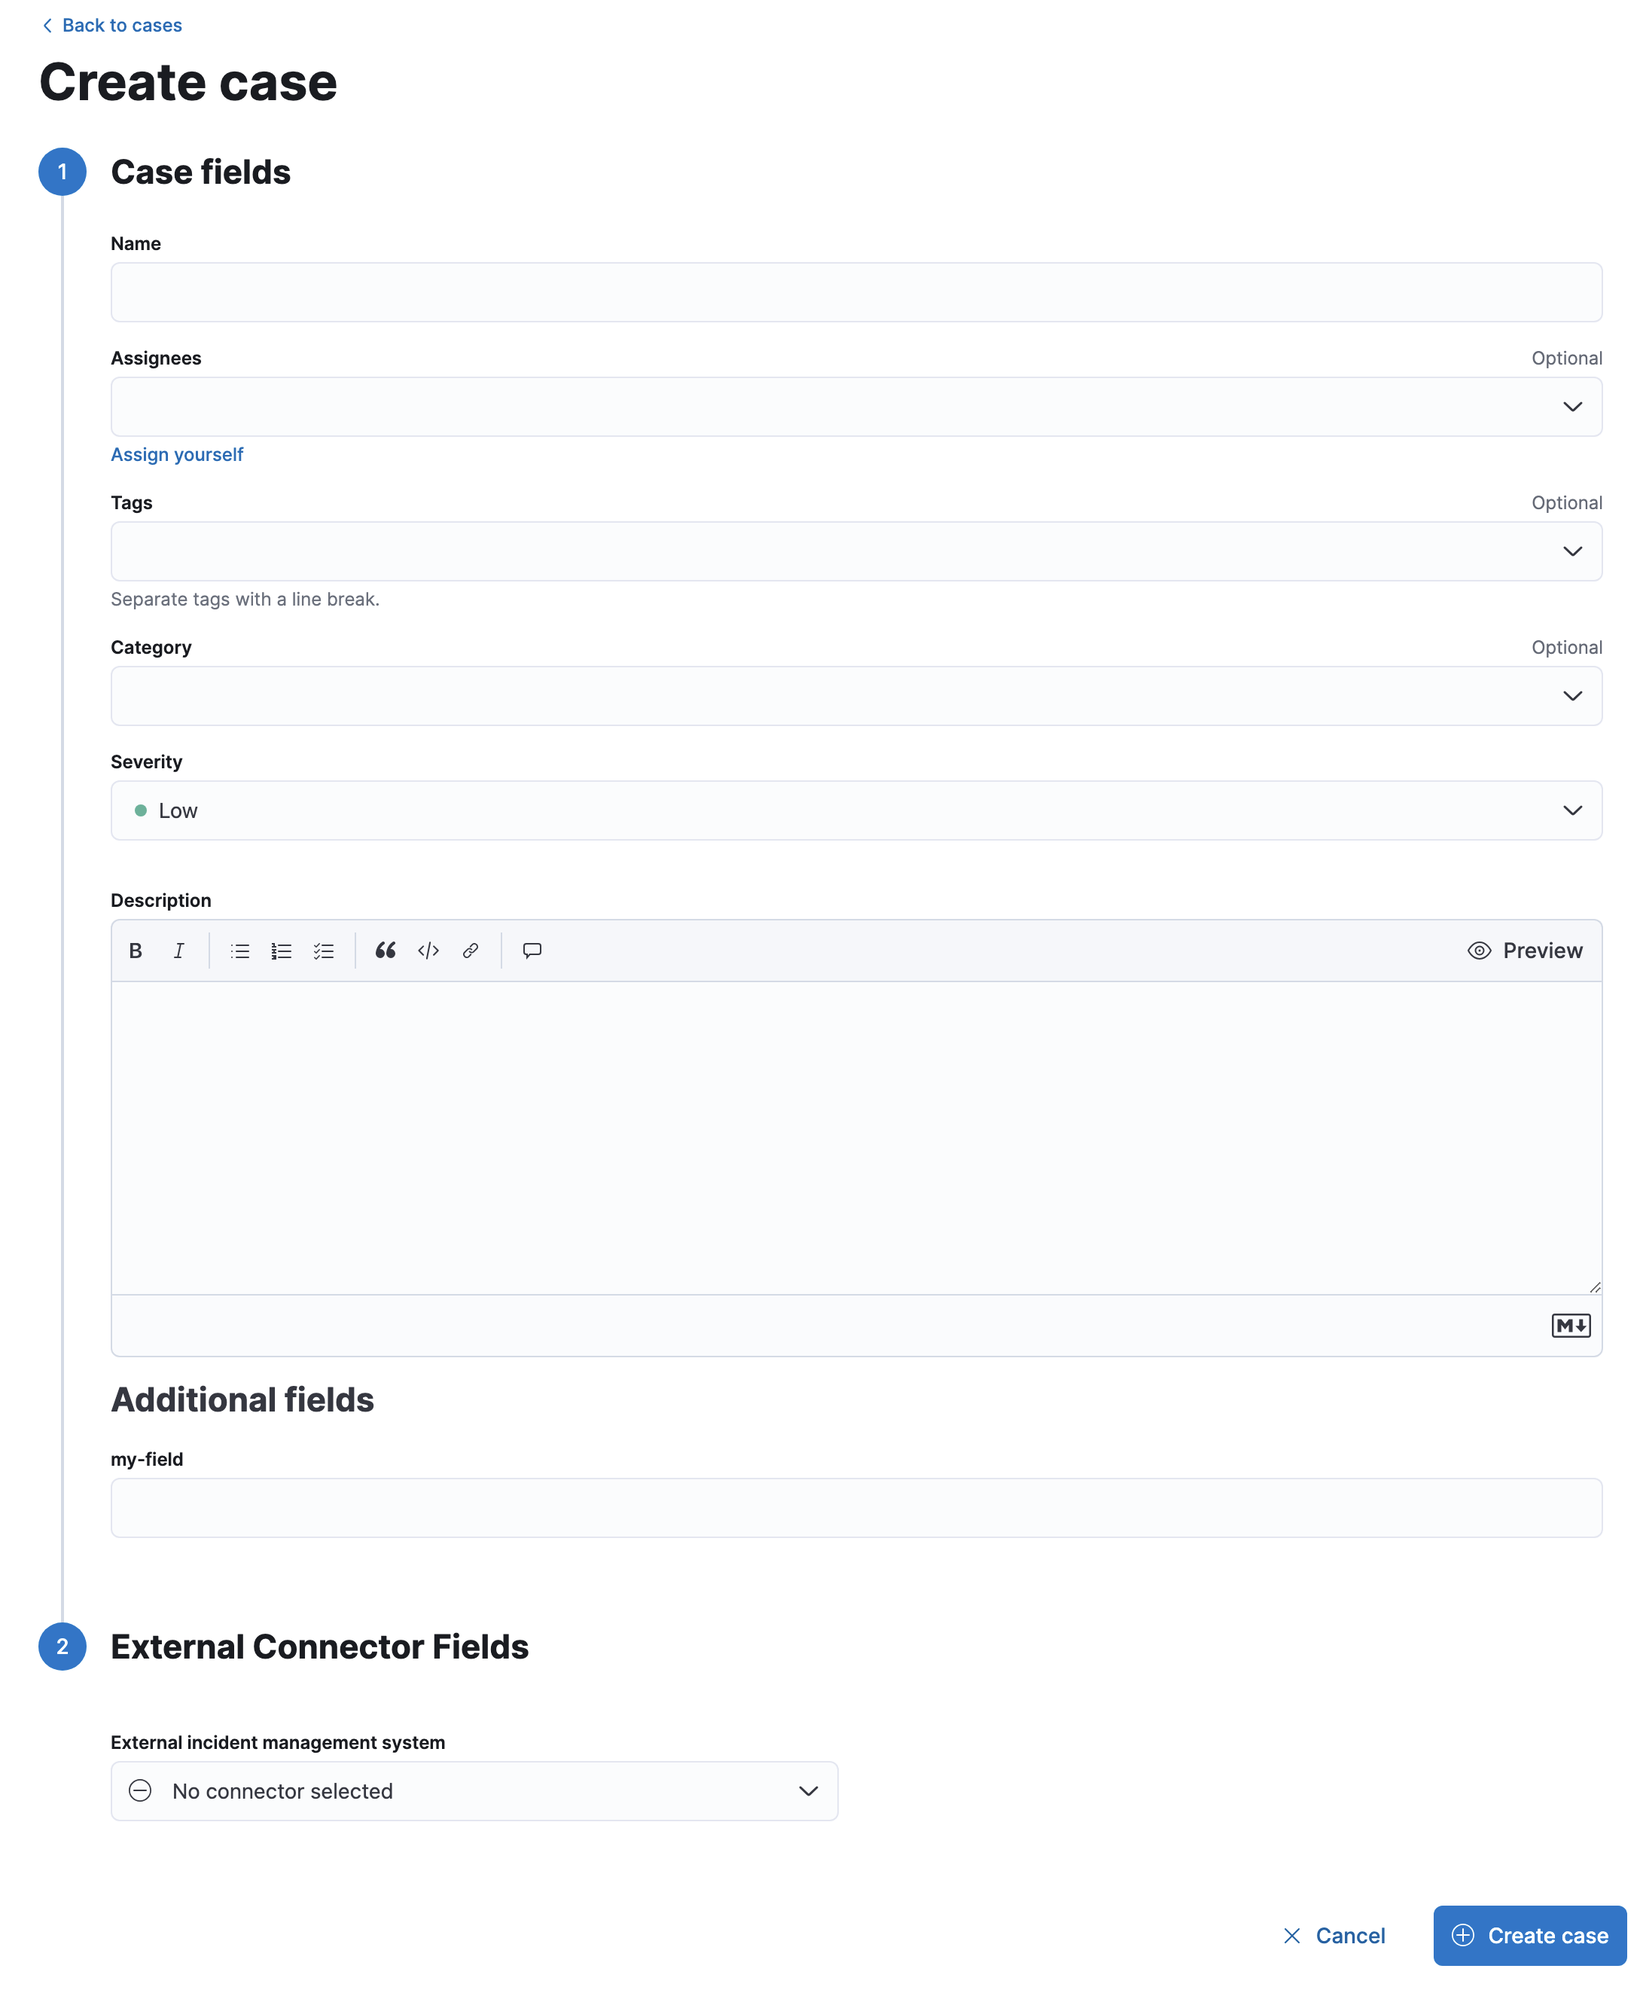
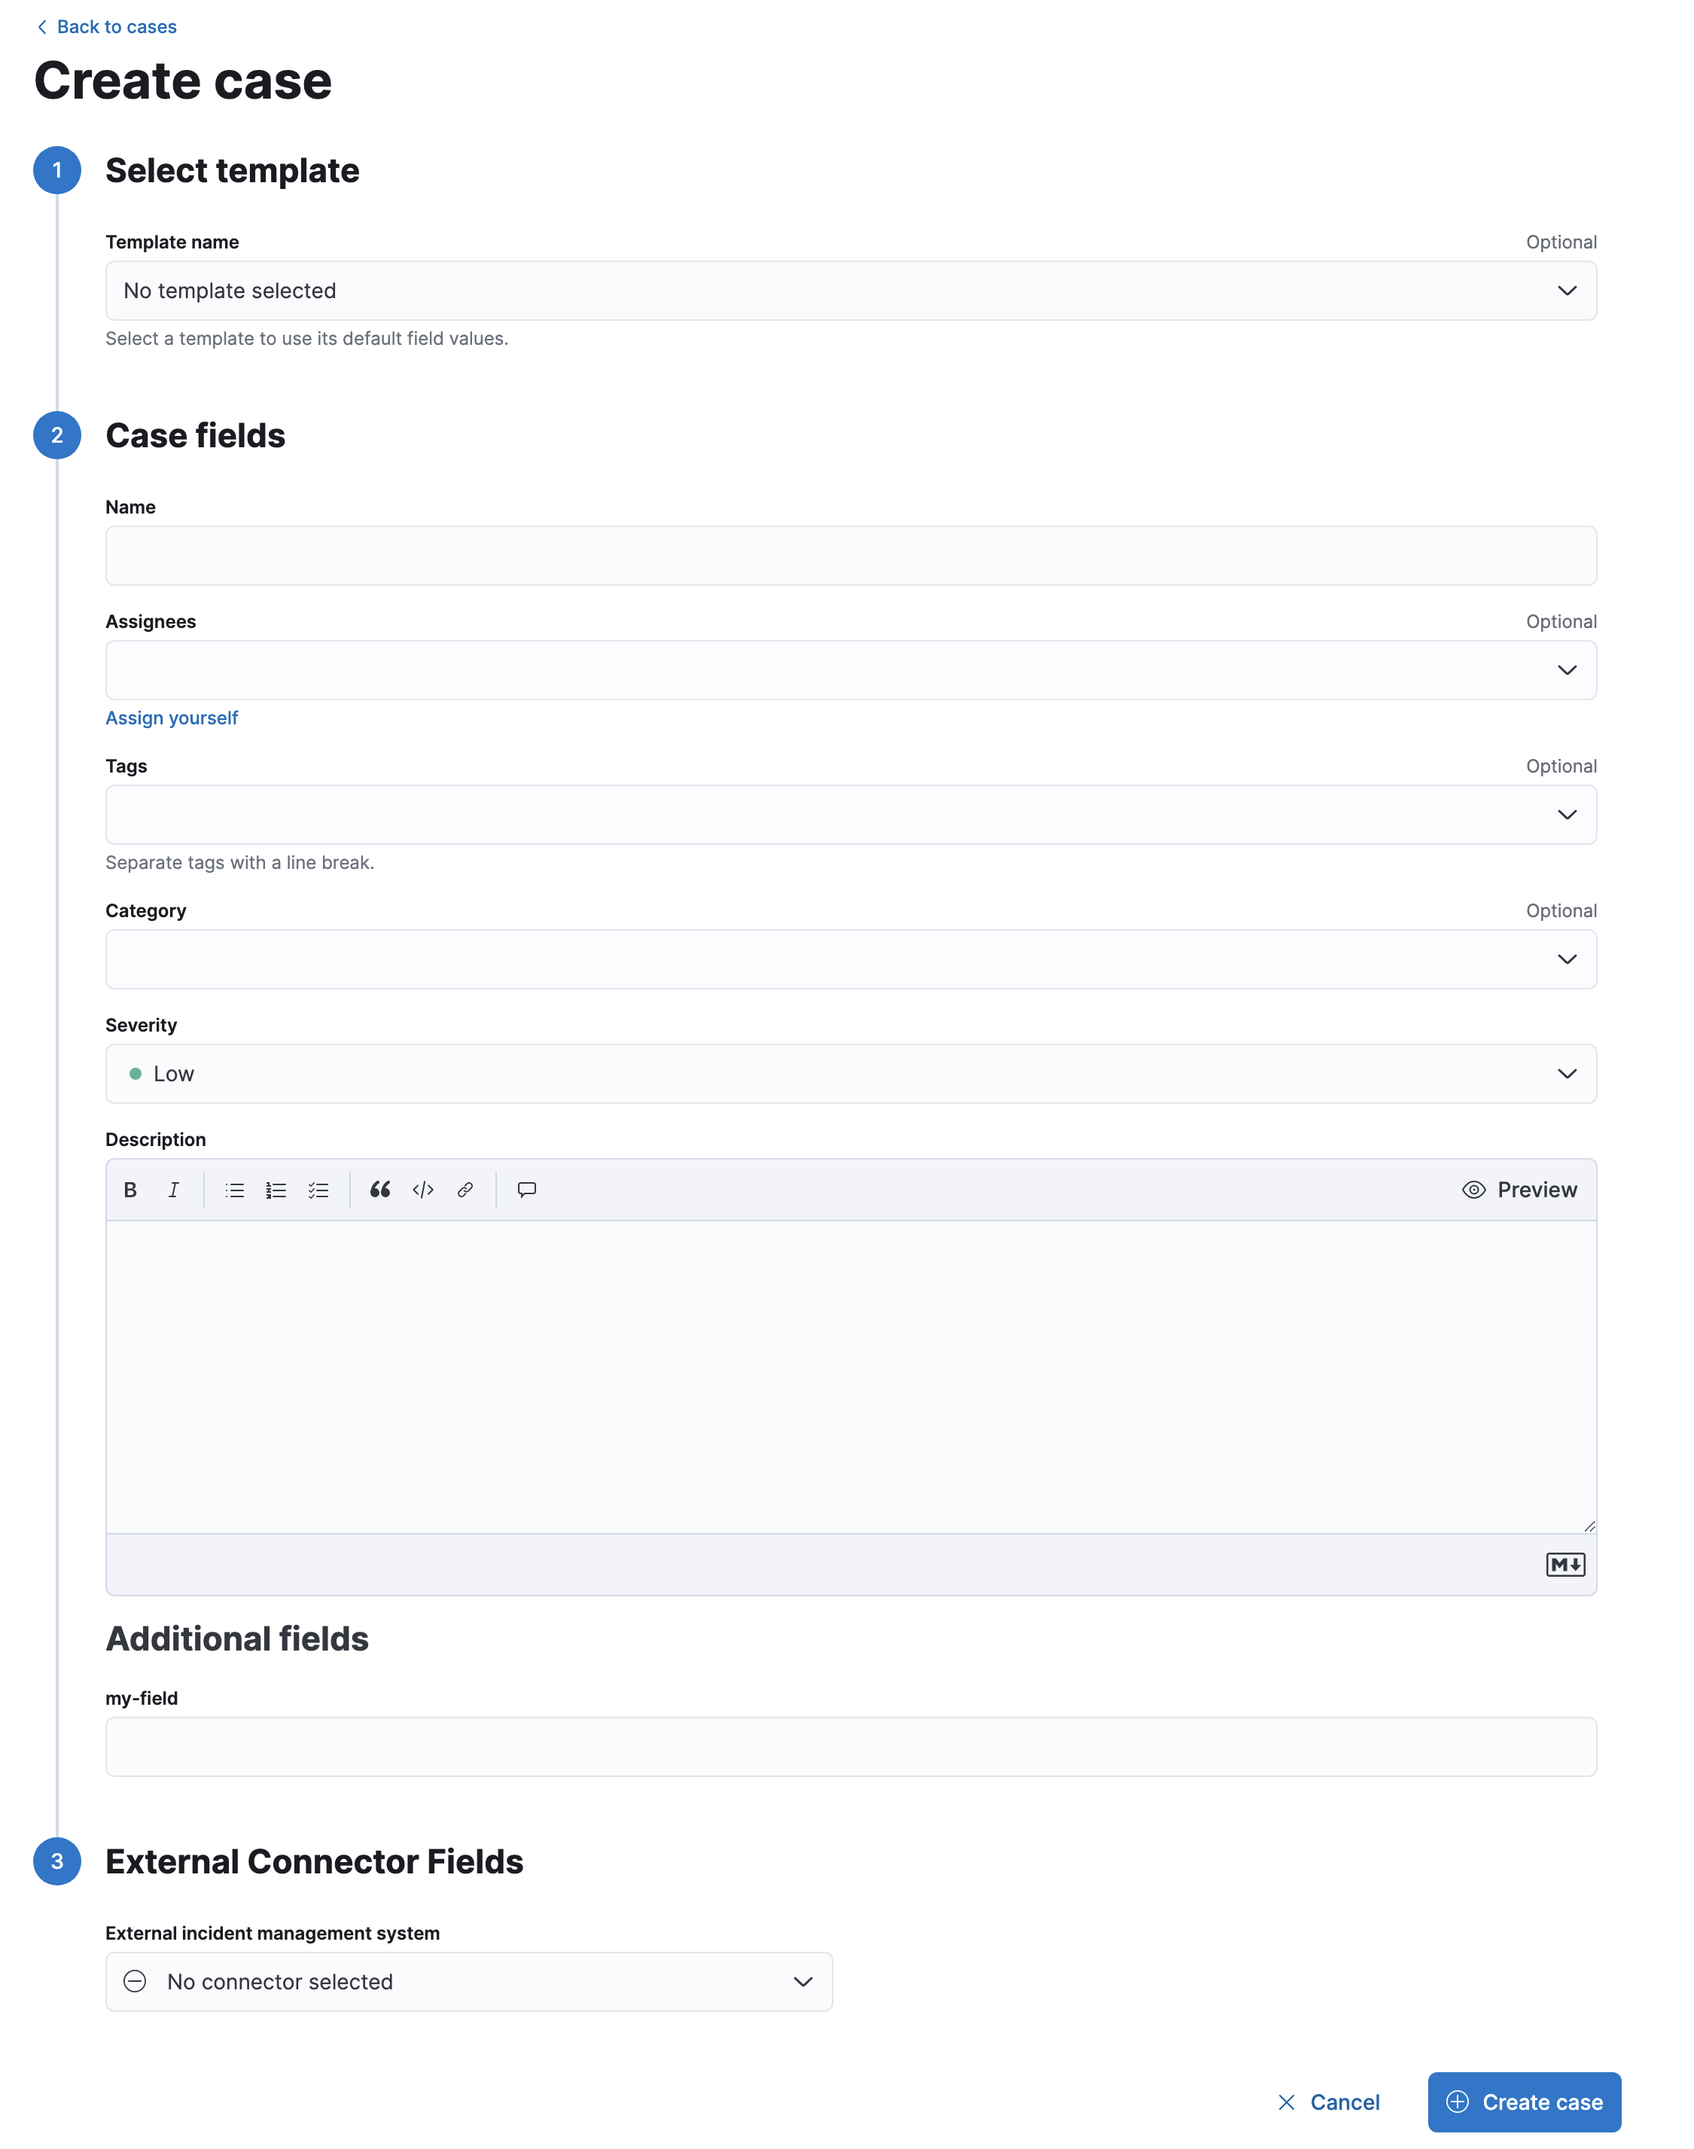
[Cases][Docs] Add case template overview (#187815)

diff --git a/x-pack/test_serverless/functional/test_suites/security/screenshot_creation/response_ops_docs/cases/settings.ts b/x-pack/test_serverless/functional/test_suites/security/screenshot_creation/response_ops_docs/cases/settings.ts
@@ -1,0 +1,48 @@
+/*
+ * Copyright Elasticsearch B.V. and/or licensed to Elasticsearch B.V. under one
+ * or more contributor license agreements. Licensed under the Elastic License
+ * 2.0; you may not use this file except in compliance with the Elastic License
+ * 2.0.
+ */
+
+import { SECURITY_SOLUTION_OWNER } from '@kbn/cases-plugin/common';
+import { FtrProviderContext } from '../../../../../ftr_provider_context';
+import { navigateToCasesApp } from '../../../../../../shared/lib/cases';
+
+export default function ({ getPageObject, getPageObjects, getService }: FtrProviderContext) {
+  const pageObjects = getPageObjects(['common', 'header', 'svlCommonPage', 'svlCommonNavigation']);
+  const svlCases = getService('svlCases');
+  const svlCommonScreenshots = getService('svlCommonScreenshots');
+  const screenshotDirectories = ['response_ops_docs', 'security_cases'];
+  const testSubjects = getService('testSubjects');
+  const owner = SECURITY_SOLUTION_OWNER;
+
+  describe('security case settings', function () {
+    after(async () => {
+      await svlCases.api.deleteAllCaseItems();
+    });
+
+    beforeEach(async () => {
+      await pageObjects.svlCommonPage.loginWithRole('admin');
+    });
+
+    it('case settings screenshot', async () => {
+      await navigateToCasesApp(getPageObject, getService, owner);
+      await testSubjects.click('configure-case-button');
+      await pageObjects.header.waitUntilLoadingHasFinished();
+      await svlCommonScreenshots.takeScreenshot('security-cases-settings', screenshotDirectories);
+      await testSubjects.click('add-template');
+      await svlCommonScreenshots.takeScreenshot(
+        'security-cases-templates',
+        screenshotDirectories,
+        1400,
+        1000
+      );
+      await testSubjects.click('common-flyout-cancel');
+      await testSubjects.click('dropdown-connectors');
+      await testSubjects.click('dropdown-connector-add-connector');
+      await svlCommonScreenshots.takeScreenshot('security-cases-connectors', screenshotDirectories);
+      await testSubjects.click('euiFlyoutCloseButton');
+    });
+  });
+}

diff --git a/x-pack/test/screenshot_creation/apps/response_ops_docs/stack_cases/settings.ts b/x-pack/test/screenshot_creation/apps/response_ops_docs/stack_cases/settings.ts
@@ -1,0 +1,44 @@
+/*
+ * Copyright Elasticsearch B.V. and/or licensed to Elasticsearch B.V. under one
+ * or more contributor license agreements. Licensed under the Elastic License
+ * 2.0; you may not use this file except in compliance with the Elastic License
+ * 2.0.
+ */
+
+import { FtrProviderContext } from '../../../ftr_provider_context';
+export default function ({ getPageObject, getService }: FtrProviderContext) {
+  const cases = getService('cases');
+  const commonScreenshots = getService('commonScreenshots');
+  const testSubjects = getService('testSubjects');
+  const screenshotDirectories = ['response_ops_docs', 'stack_cases'];
+
+  describe('case settings', function () {
+    it('case settings screenshot', async () => {
+      await cases.navigation.navigateToApp();
+      await cases.navigation.navigateToConfigurationPage();
+      await commonScreenshots.takeScreenshot('cases-settings', screenshotDirectories, 1400, 1024);
+      await testSubjects.click('add-template');
+      await commonScreenshots.takeScreenshot(
+        'cases-templates-add',
+        screenshotDirectories,
+        1400,
+        1000
+      );
+      await testSubjects.click('common-flyout-cancel');
+      // await testSubjects.click('add-custom-field');
+      // await commonScreenshots.takeScreenshot(
+      //   'cases-custom-fields-add',
+      //   screenshotDirectories,
+      //   1400,
+      //   700
+      // );
+      // await testSubjects.setValue('custom-field-label-input', 'my-field');
+      // await testSubjects.click('common-flyout-save');
+      // await commonScreenshots.takeScreenshot('cases-settings', screenshotDirectories, 1400, 1024);
+      // await cases.navigation.navigateToApp();
+      // await testSubjects.click('createNewCaseBtn');
+      // await commonScreenshots.takeScreenshot('cases-create', screenshotDirectories, 1400, 1900);
+      // await testSubjects.click('create-case-cancel');
+    });
+  });
+}

diff --git a/x-pack/test_serverless/functional/test_suites/observability/screenshot_creation/response_ops_docs/cases/settings.ts b/x-pack/test_serverless/functional/test_suites/observability/screenshot_creation/response_ops_docs/cases/settings.ts
@@ -1,0 +1,48 @@
+/*
+ * Copyright Elasticsearch B.V. and/or licensed to Elasticsearch B.V. under one
+ * or more contributor license agreements. Licensed under the Elastic License
+ * 2.0; you may not use this file except in compliance with the Elastic License
+ * 2.0.
+ */
+
+import { OBSERVABILITY_OWNER } from '@kbn/cases-plugin/common';
+import { FtrProviderContext } from '../../../../../ftr_provider_context';
+import { navigateToCasesApp } from '../../../../../../shared/lib/cases';
+
+export default function ({ getPageObject, getPageObjects, getService }: FtrProviderContext) {
+  const svlCases = getService('svlCases');
+  const svlCommonScreenshots = getService('svlCommonScreenshots');
+  const screenshotDirectories = ['response_ops_docs', 'observability_cases'];
+  const testSubjects = getService('testSubjects');
+  const owner = OBSERVABILITY_OWNER;
+
+  describe('Observability case settings', function () {
+    after(async () => {
+      await svlCases.api.deleteAllCaseItems();
+    });
+
+    it('case settings screenshots', async () => {
+      await navigateToCasesApp(getPageObject, getService, owner);
+      await testSubjects.click('configure-case-button');
+      await svlCommonScreenshots.takeScreenshot(
+        'observability-cases-settings',
+        screenshotDirectories
+      );
+      await testSubjects.click('add-template');
+      await svlCommonScreenshots.takeScreenshot(
+        'observability-cases-templates',
+        screenshotDirectories,
+        1400,
+        1000
+      );
+      await testSubjects.click('common-flyout-cancel');
+      await testSubjects.click('dropdown-connectors');
+      await testSubjects.click('dropdown-connector-add-connector');
+      await svlCommonScreenshots.takeScreenshot(
+        'observability-cases-add-connector',
+        screenshotDirectories
+      );
+      await testSubjects.click('euiFlyoutCloseButton');
+    });
+  });
+}

diff --git a/x-pack/test/screenshot_creation/apps/response_ops_docs/security_cases/custom_fields.ts b/x-pack/test/screenshot_creation/apps/response_ops_docs/security_cases/custom_fields.ts
@@ -19,6 +19,14 @@ export default function ({ getService, getPageObjects }: FtrProviderContext) {
       await pageObjects.header.waitUntilLoadingHasFinished();
       await testSubjects.click('configure-case-button');
       await commonScreenshots.takeScreenshot('cases-settings', screenshotDirectories);
+      await testSubjects.click('add-template');
+      await commonScreenshots.takeScreenshot(
+        'cases-add-template',
+        screenshotDirectories,
+        1400,
+        1000
+      );
+      await testSubjects.click('common-flyout-cancel');
       await testSubjects.click('add-custom-field');
       await commonScreenshots.takeScreenshot(
         'cases-add-custom-field',
@@ -27,7 +35,7 @@ export default function ({ getService, getPageObjects }: FtrProviderContext) {
         700
       );
       await testSubjects.setValue('custom-field-label-input', 'my-field');
-      await testSubjects.click('custom-field-flyout-save');
+      await testSubjects.click('common-flyout-save');
       await commonScreenshots.takeScreenshot(
         'cases-custom-field-settings',
         screenshotDirectories,

diff --git a/x-pack/test_serverless/functional/test_suites/security/screenshot_creation/response_ops_docs/cases/list_view.ts b/x-pack/test_serverless/functional/test_suites/security/screenshot_creation/response_ops_docs/cases/list_view.ts
@@ -75,13 +75,6 @@ export default function ({ getPageObject, getPageObjects, getService }: FtrProvi
       await svlCommonScreenshots.takeScreenshot('cases-home-page', screenshotDirectories);
     });
 
-    it('case settings screenshot', async () => {
-      await navigateToCasesApp(getPageObject, getService, owner);
-      await testSubjects.click('configure-case-button');
-      await pageObjects.header.waitUntilLoadingHasFinished();
-      await svlCommonScreenshots.takeScreenshot('case-settings', screenshotDirectories);
-    });
-
     it('case detail screenshot', async () => {
       await pageObjects.common.navigateToUrlWithBrowserHistory(
         'securitySolution',

diff --git a/x-pack/test_serverless/functional/test_suites/observability/screenshot_creation/response_ops_docs/cases/list_view.ts b/x-pack/test_serverless/functional/test_suites/observability/screenshot_creation/response_ops_docs/cases/list_view.ts
@@ -67,12 +67,6 @@ export default function ({ getPageObject, getPageObjects, getService }: FtrProvi
       await svlCommonScreenshots.takeScreenshot('cases', screenshotDirectories, 1700, 1024);
     });
 
-    it('case settings screenshot', async () => {
-      await navigateToCasesApp(getPageObject, getService, owner);
-      await testSubjects.click('configure-case-button');
-      await svlCommonScreenshots.takeScreenshot('add-case-connector', screenshotDirectories);
-    });
-
     it('case detail screenshot', async () => {
       await pageObjects.common.navigateToUrlWithBrowserHistory(
         'observability',

diff --git a/x-pack/test/screenshot_creation/apps/response_ops_docs/stack_cases/index.ts b/x-pack/test/screenshot_creation/apps/response_ops_docs/stack_cases/index.ts
@@ -47,8 +47,8 @@ export default function ({ getService, loadTestFile }: FtrProviderContext) {
     });
 
     loadTestFile(require.resolve('./list_view'));
-    loadTestFile(require.resolve('./details_view'));
-    loadTestFile(require.resolve('./external_connections'));
     loadTestFile(require.resolve('./custom_fields'));
+    loadTestFile(require.resolve('./settings'));
+    loadTestFile(require.resolve('./details_view'));
   });
 }

diff --git a/x-pack/test/screenshot_creation/apps/response_ops_docs/observability_cases/custom_fields.ts b/x-pack/test/screenshot_creation/apps/response_ops_docs/observability_cases/custom_fields.ts
@@ -28,7 +28,7 @@ export default function ({ getPageObjects, getService }: FtrProviderContext) {
         700
       );
       await testSubjects.setValue('custom-field-label-input', 'my-field');
-      await testSubjects.click('custom-field-flyout-save');
+      await testSubjects.click('common-flyout-save');
       await commonScreenshots.takeScreenshot(
         'cases-custom-field-settings',
         screenshotDirectories,

diff --git a/x-pack/test/screenshot_creation/apps/response_ops_docs/stack_cases/custom_fields.ts b/x-pack/test/screenshot_creation/apps/response_ops_docs/stack_cases/custom_fields.ts
@@ -26,7 +26,7 @@ export default function ({ getPageObject, getService }: FtrProviderContext) {
         700
       );
       await testSubjects.setValue('custom-field-label-input', 'my-field');
-      await testSubjects.click('custom-field-flyout-save');
+      await testSubjects.click('common-flyout-save');
       await commonScreenshots.takeScreenshot(
         'cases-custom-fields-view',
         screenshotDirectories,

diff --git a/x-pack/test_serverless/functional/test_suites/observability/config.screenshots.ts b/x-pack/test_serverless/functional/test_suites/observability/config.screenshots.ts
@@ -7,7 +7,17 @@
 
 import { createTestConfig } from '../../config.base';
 
-const enabledActionTypes = ['.index', '.server-log'];
+const enabledActionTypes = [
+  '.cases-webhook',
+  '.index',
+  '.jira',
+  '.resilient',
+  '.server-log',
+  '.servicenow',
+  '.servicenow-itom',
+  '.servicenow-sir',
+  '.swimlane',
+];
 
 export default createTestConfig({
   serverlessProject: 'oblt',

diff --git a/x-pack/test_serverless/functional/test_suites/observability/screenshot_creation/response_ops_docs/cases/index.ts b/x-pack/test_serverless/functional/test_suites/observability/screenshot_creation/response_ops_docs/cases/index.ts
@@ -16,5 +16,6 @@ export default function ({ loadTestFile, getService }: FtrProviderContext) {
     });
 
     loadTestFile(require.resolve('./list_view'));
+    loadTestFile(require.resolve('./settings'));
   });
 }

diff --git a/x-pack/test_serverless/functional/test_suites/security/screenshot_creation/response_ops_docs/cases/index.ts b/x-pack/test_serverless/functional/test_suites/security/screenshot_creation/response_ops_docs/cases/index.ts
@@ -16,5 +16,6 @@ export default function ({ loadTestFile, getService }: FtrProviderContext) {
     });
 
     loadTestFile(require.resolve('./list_view'));
+    loadTestFile(require.resolve('./settings'));
   });
 }
